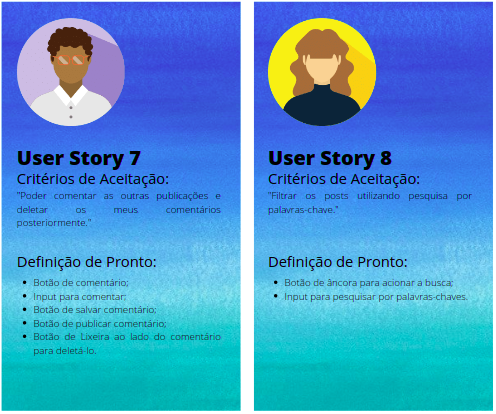
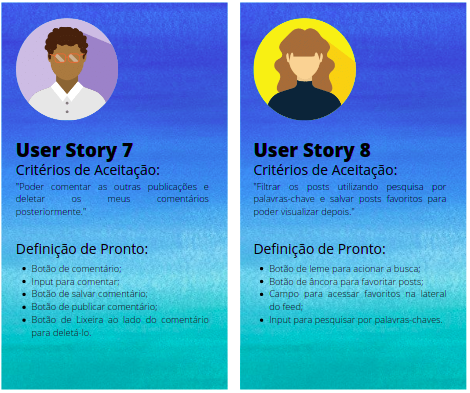
readme finalizado

diff --git a/README.md b/README.md
@@ -126,22 +126,37 @@ E ao pensar em uso em tablets grandes e computadores, decidimos por manter a int
 Produto Final: Conhecendo o A\Bordo
 </h2>  
 
-E assim, após muito planejamento e execução, por fim, o [A\Bordo - Rede Social dos Velejadores]() veio ao mundo como o mais prazeroso e difícil desafio enfrentado até então por todas as colaboradoras.  
+E assim, após muito planejamento e execução, por fim, o [A\Bordo - Rede Social dos Velejadores](https://social-network-c20e5.web.app/) veio ao mundo como o mais prazeroso e difícil desafio enfrentado até então por todas as colaboradoras.  
 Este projeto foi realizado com muito carinho e total dedicação e nenhum percalço foi capaz de impedir sua finalização.
 
-Conheça um pouco mais da versão para celulares.
+Conheça um pouco mais da versão para celulares.  
+
+O aplicativo não permite acesso sem verificação de e-mail válido e o usuário será informado caso algum campo não esteja preenchido ou contenha informaçẽos inválidas.  
+É possível também realizar o cadastro e login ao clicar no botão de _Entrar com o Google_.  
+Caso o usuário também tenha esquecido sua senha, é possível recuperar a senha ao clicar em _Esqueci a Senha_.
+
 
 <p align='center'>
   <img src='src/img/abordo.login.celular.png' widht='40%'>
 </p>   
 
 <p align='center'>
-  <img src='src/img/.png' widht='40%'>
+  <img src='src/img/abordo.profile.celular.png' widht='40%'>
+</p> 
+
+<p align='center'>
+  <img src='src/img/abordo.feed.infos.celular.png' widht='40%'>
 </p>  
 
 <p align='center'>
-  <img src='src/img/.png' widht='40%'>
+  <img src='src/img/abordo.feed.posts.celular.png' widht='40%'>
 </p>   
+
+E ao clicar no menu exclusivo para celular no topo da tela à direita, abre as opções para acessar o perfil, realizar a mudança de idiomas e sair do seu acesso.  
+
+<p align='center'>
+  <img src='src/img/abordo.menu.celular.png' widht='40%'>
+</p> 
 
 E da versão para computadores.  
 
@@ -150,11 +165,33 @@ E da versão para computadores.
 </p>   
 
 <p align='center'>
-  <img src='src/img/.png' widht='40%'>
+  <img src='src/img/abordo.profile.desk.png' widht='40%'>
+</p>  
+
+Vale ressaltar, que tanto a versão para celular quanto para computador, o usuário pode editar e deletar seu post; curtir, comentar e deletar o comentário nos posts de outros usuários.  
+
+<p align='center'>
+  <img src='src/img/abordo.feed.edit.coment.desk.png' widht='40%'>
+</p>  
+
+A previsão do tempo se ajusta a localização do usuário e o aplicativo foi desenhado para atender um público internacional, realizando a troca de idiomas em 4 opções.  
+
+<p align='center'>
+  <img src='src/img/abordo.idiomas.feed.desk.png' widht='40%'>
+</p>
+
+<p align='center'>
+  <img src='src/img/abordo.ingles.feed.desk.png' widht='40%'>
+</p>
+
+O usuário pode também salvar seus posts favoritos para ver depois e por fim, realizar uma busca por palavra-chave, tendo também a opção de limpar tanto a pesquisa, quanto para sair dos itens salvos.  
+
+<p align='center'>
+  <img src='src/img/abordo.salvos.feed.desk.png' widht='40%'>
 </p>  
 
 <p align='center'>
-  <img src='src/img/.png' widht='40%'>
+  <img src='src/img/abordo.pesquisa.feed.desk.png' widht='40%'>
 </p>  
 
 
